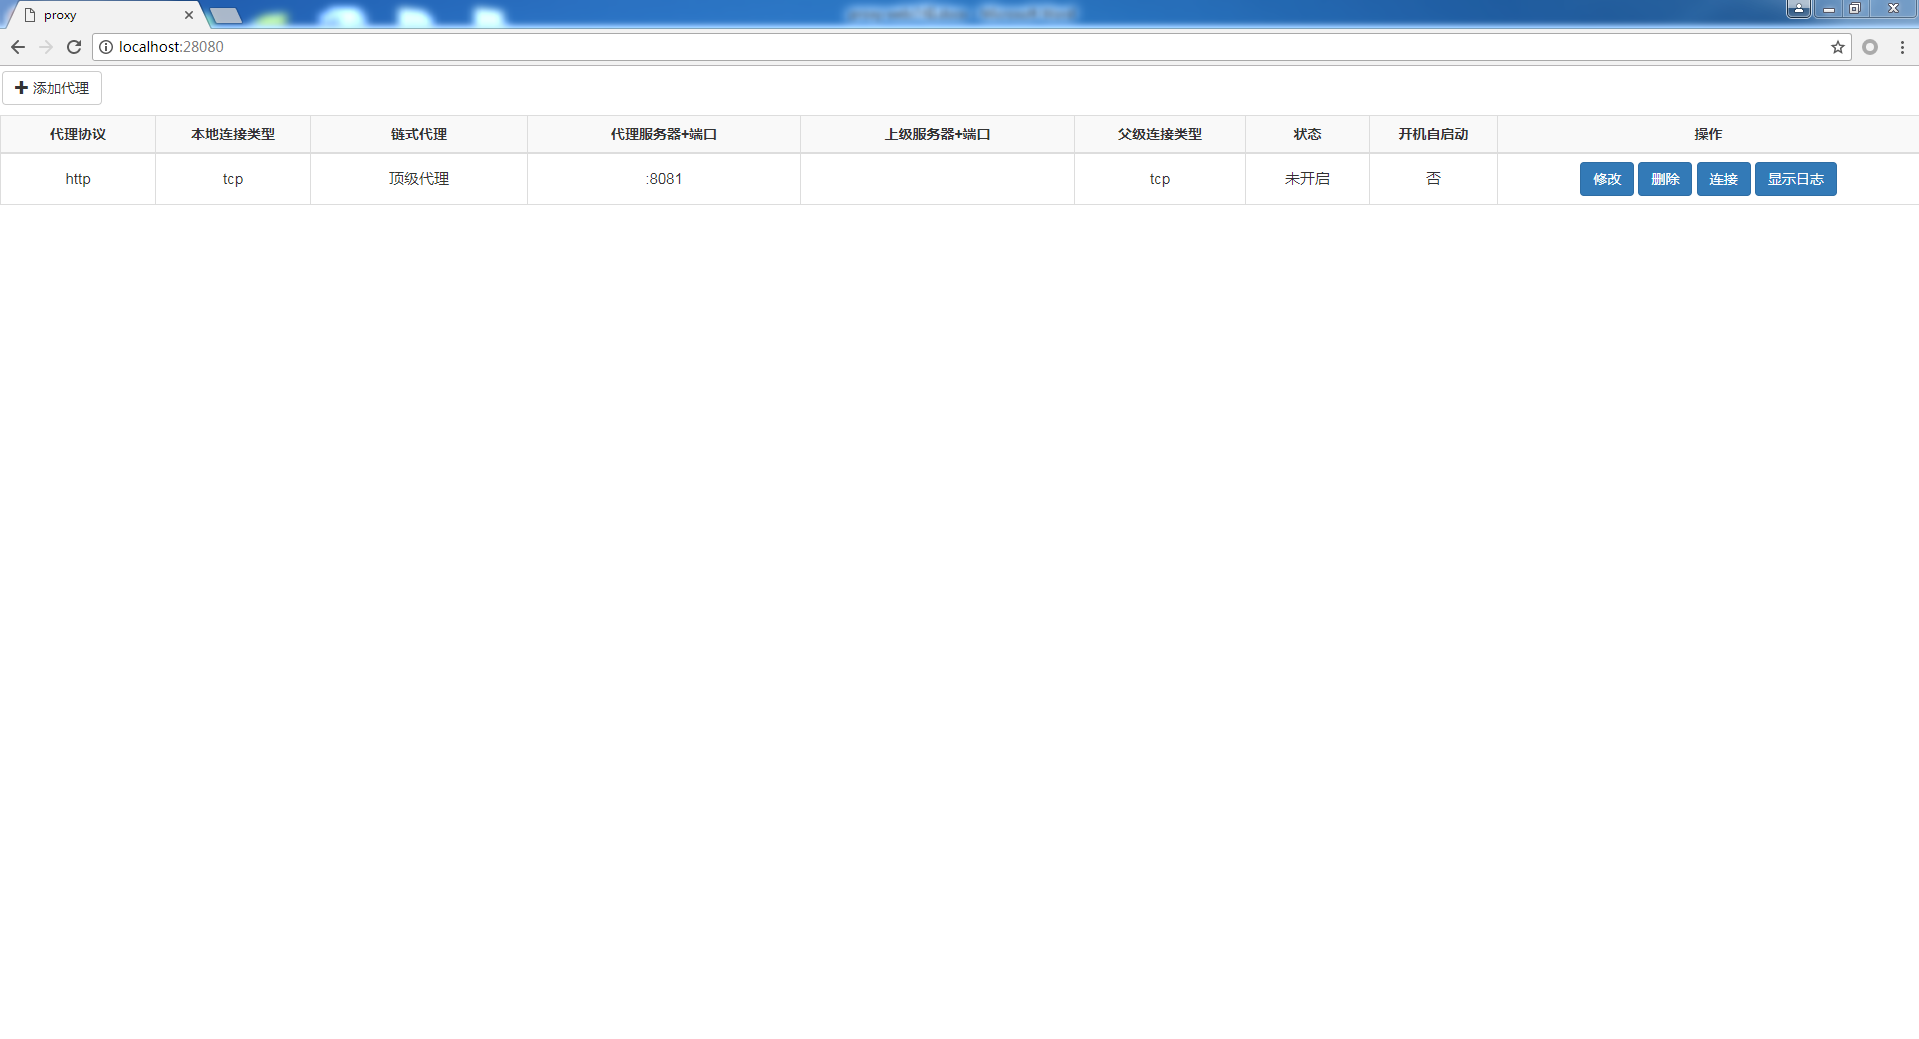
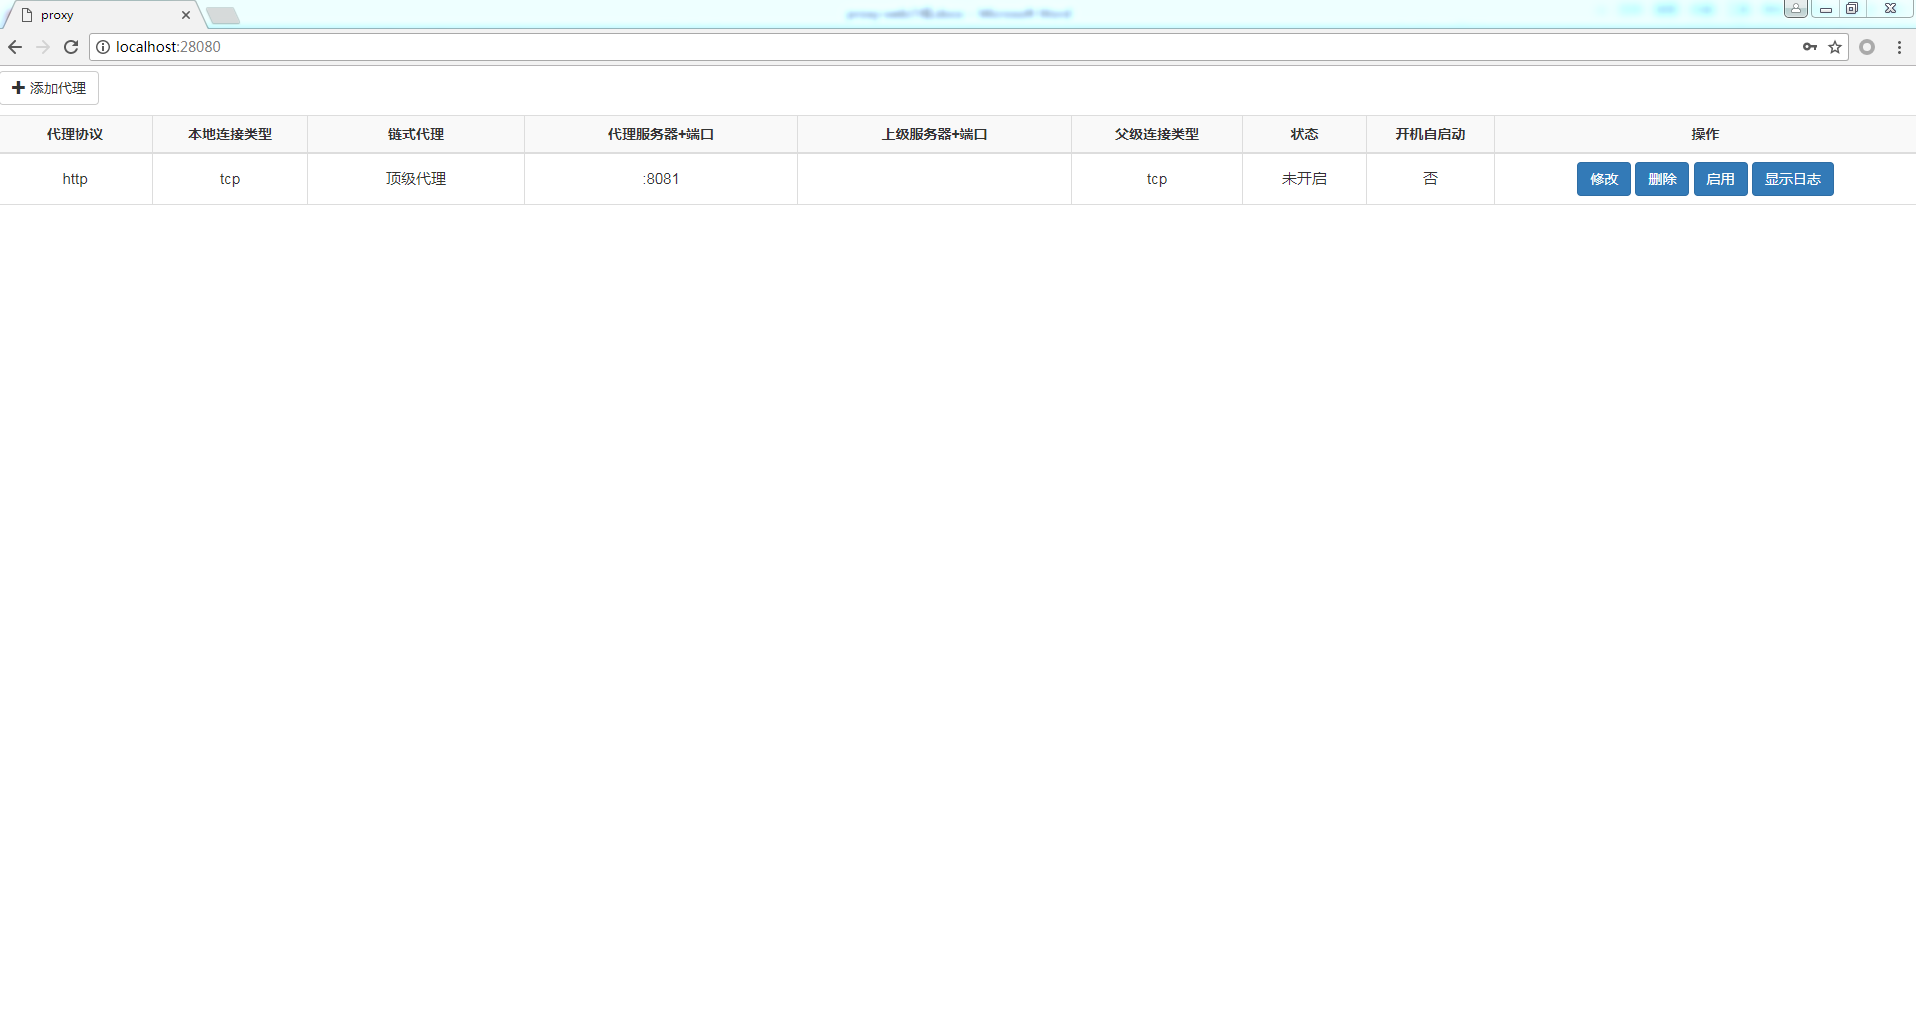
view

diff --git a/view/index.html b/view/index.html
@@ -268,7 +268,7 @@
 								<td  style="width:270px;">\
 									<a class="btn btn-primary ng-binding update" onclick="getData(this)">修改</a>\
 									<a class="btn btn-primary ng-binding delete" onclick="confirmDel(this)">删除</a>\
-									<a class="btn btn-primary ng-binding link" onclick="link(this)">连接</a>\
+									<a class="btn btn-primary ng-binding link" onclick="link(this)">启用</a>\
 									<a class="btn btn-primary ng-binding closed" onclick="closed(this)" style="display:none;">关闭</a>\
 									<a class="btn btn-primary ng-binding log" onclick="showLog(this)" pid="">显示日志</a>\
 									<a class="btn btn-primary ng-binding nolog" onclick="stopLog(this)" style="display:none;">隐藏日志</a>\
@@ -382,6 +382,8 @@
 				$(obj).parents('form').find('.superior').after(keyHtml)
 				$(obj).parents('form').find('.superior').after(passHtml)
 				$(obj).parents('form').find('.superior').after(userHtml)
+				$(obj).parents('form').find('input[name=password]').siblings('label').html('私钥密码')
+				$(obj).parents('form').find('input[name=key]').siblings('label').html('私钥文件')
 				upload()
 			}
 		}

diff --git a/README.md b/README.md
@@ -52,7 +52,7 @@ config里也可以修改端口
 
 #### **2.1.http参数** 
 tls形式加密：-C .crt文件 和 -K参数 .key文件  
-ssh形式加密：有密钥和密码两种方式，-u 用户名 -A 密码 -S .key文件 -s 密钥密码 
+ssh形式加密：有密钥和密码两种方式，-u 用户名 -A 密码 -S 私钥文件 -s 私钥密码 
 kcp形式加密：-B 密码  
 <img src="https://github.com/yincongcyincong/proxy-web/blob/master/docs/image/http1.png?raw=true" />  
 `path to proxy/proxy http -t tcp -p :8081`  
@@ -73,7 +73,7 @@ kcp形式加密：-B密码
 
 #### **2.4.socks参数** 
 tls形式加密：-C .crt文件 和 -K参数 .key文件  
-ssh形式加密：有密钥和密码两种方式，-u 用户名 -A 密码 -S .key文件 -s 密钥密码   
+ssh形式加密：有密钥和密码两种方式，-u 用户名 -A 密码 -S 私钥文件 -s 私钥密码   
 kcp形式加密：-B 密码  
 <img src="https://github.com/yincongcyincong/proxy-web/raw/master/docs/image/socks.png?raw=true" />  
 `path to proxy/proxy socks -t tcp -p :8081 -T kcp -P 2.2.2.2:8081 -B 1234 `
